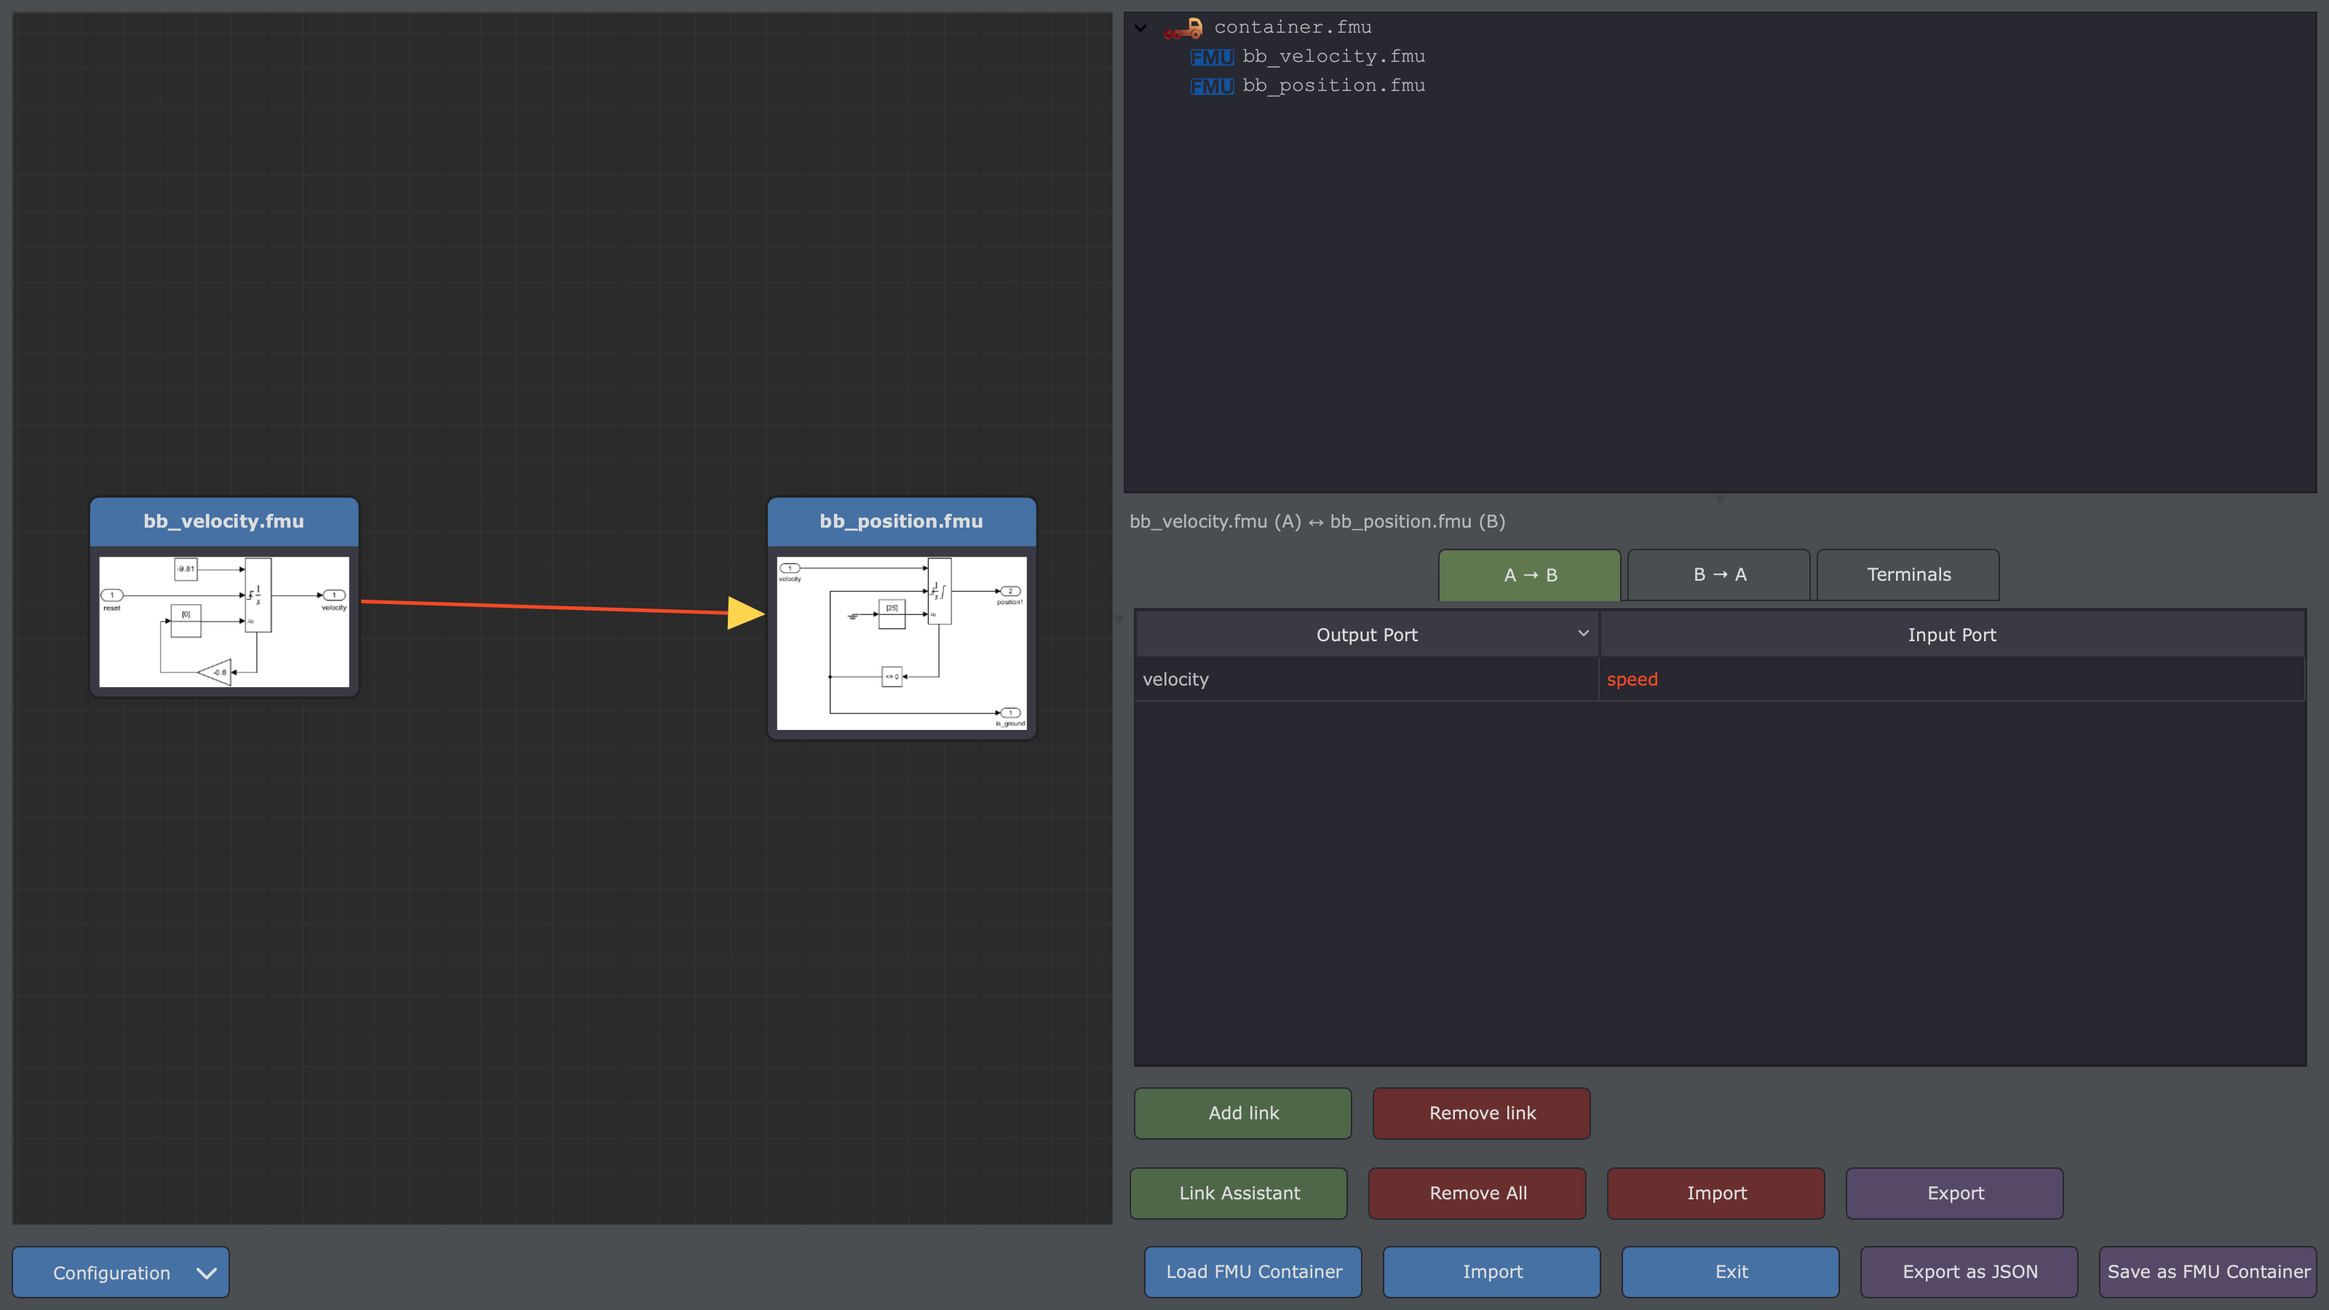
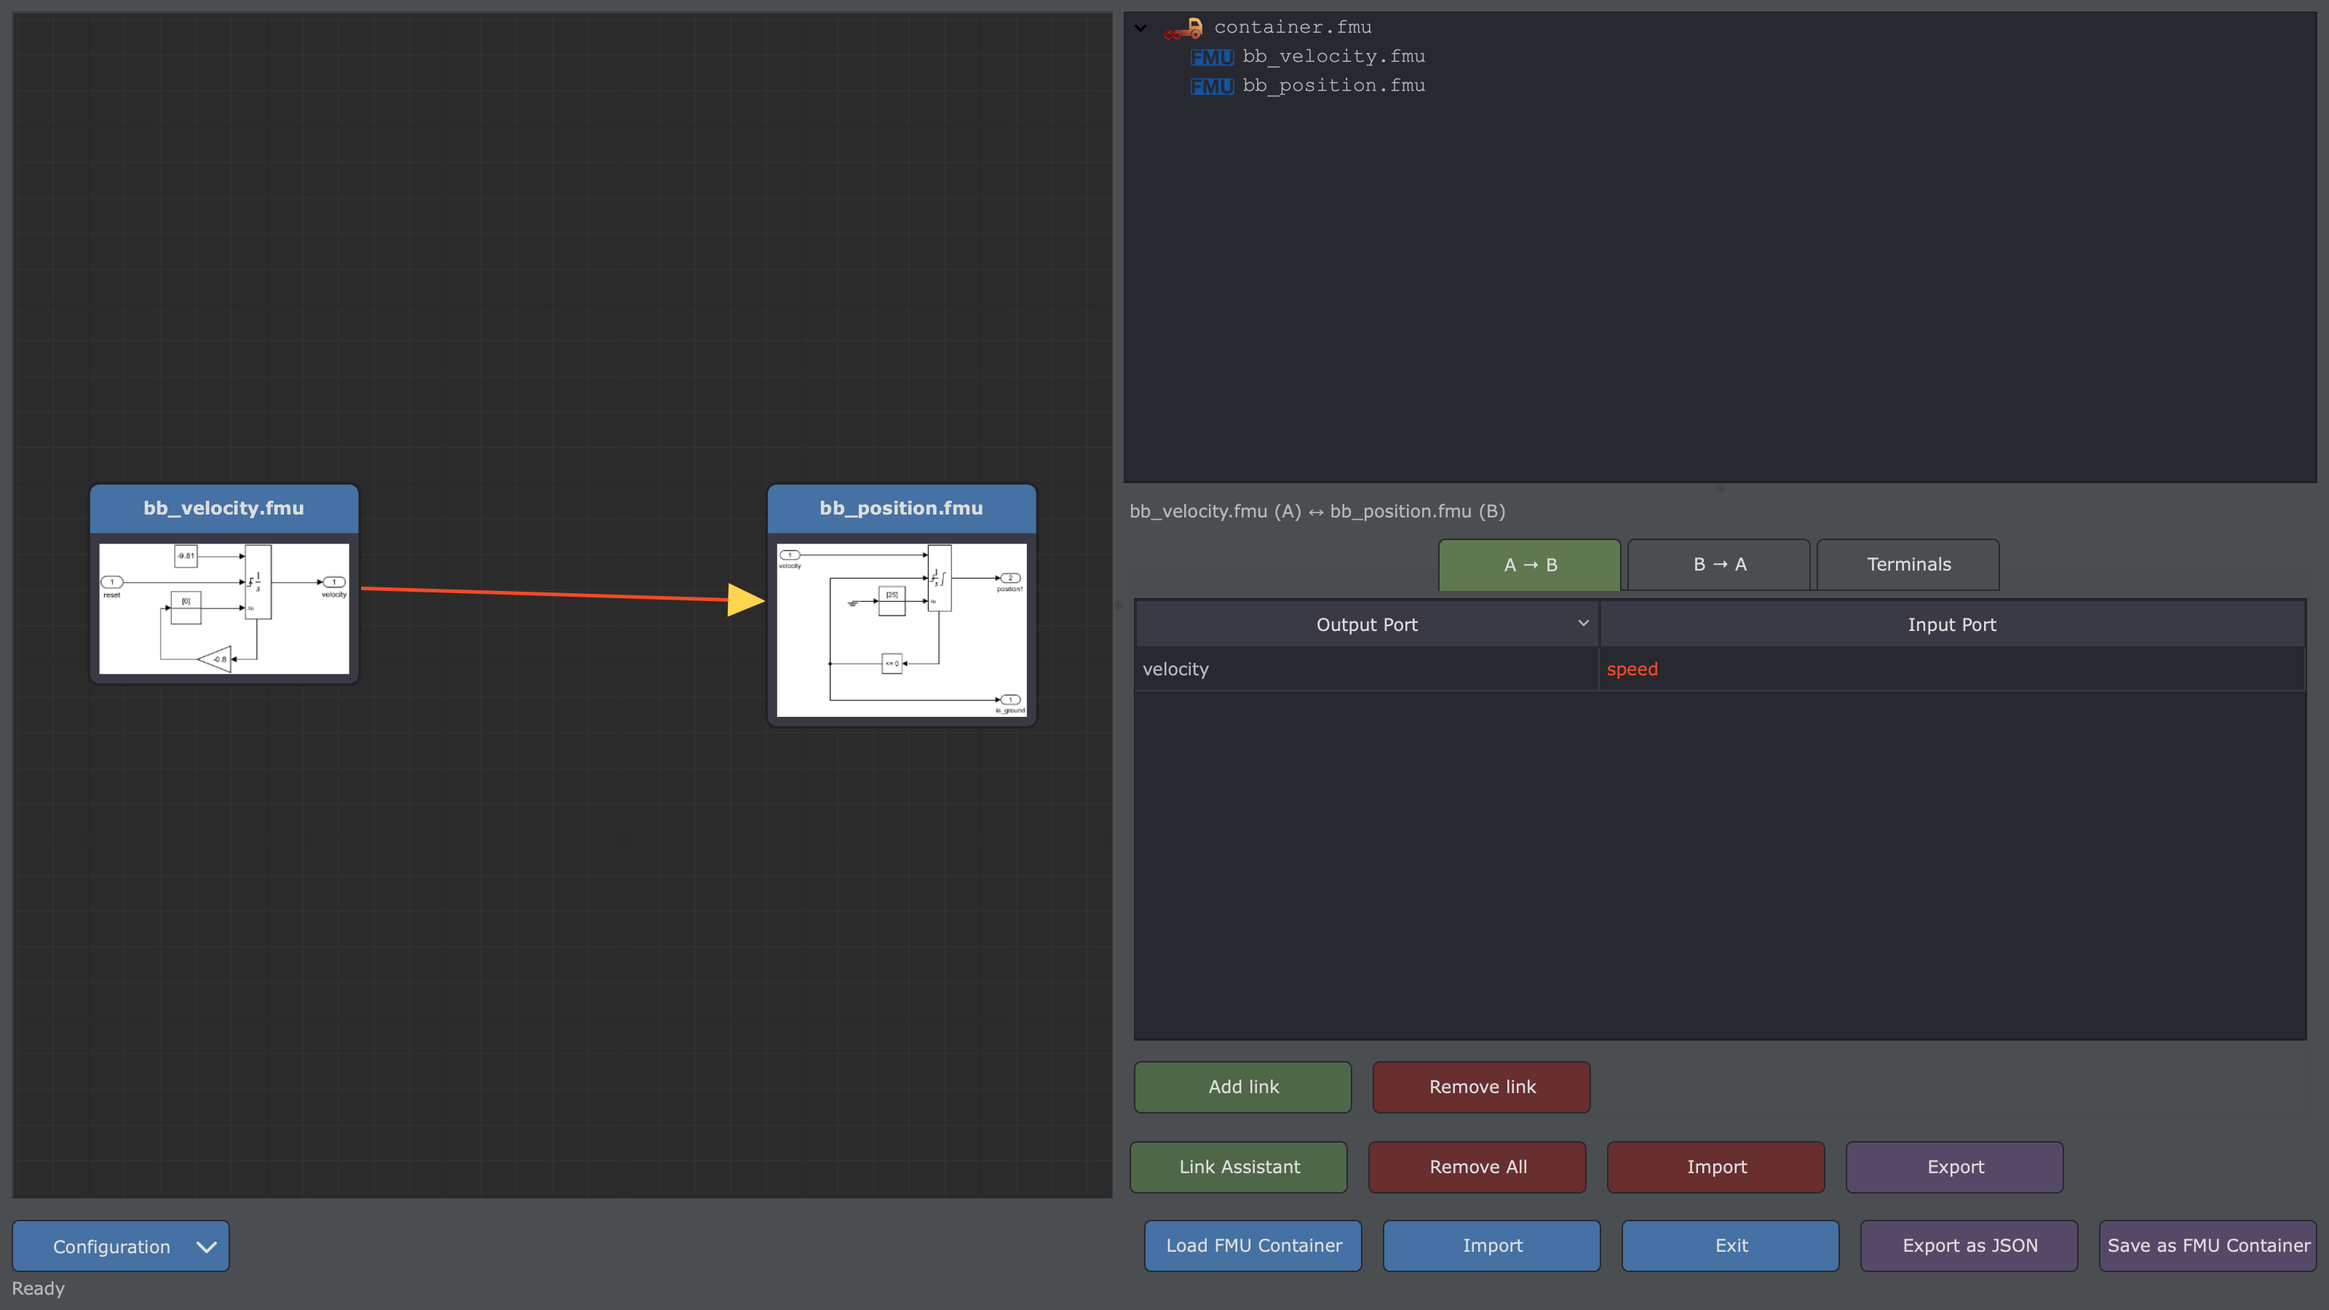
Polish log GUI

diff --git a/fmu_manipulation_toolbox/gui/fmucontainer/details/link_assistant.py b/fmu_manipulation_toolbox/gui/fmucontainer/details/link_assistant.py
@@ -15,14 +15,15 @@ import re
 import time
 from dataclasses import dataclass, field
 
-from PySide6.QtCore import Qt, Signal, QAbstractTableModel, QModelIndex, QSortFilterProxyModel, QTimer, QSize
-from PySide6.QtGui import QColor, QFont, QAction
+from PySide6.QtCore import Qt, Signal, QAbstractTableModel, QModelIndex, QSortFilterProxyModel, QTimer
+from PySide6.QtGui import QColor, QFont
 from PySide6.QtWidgets import (
     QDialog, QWidget, QLabel, QTabWidget, QSplitter, QVBoxLayout, QHBoxLayout, QGridLayout, QTableView,
-    QHeaderView, QAbstractItemView, QPushButton, QLineEdit, QCheckBox, QFrame, QStackedWidget, QMessageBox, QMenu,
+    QHeaderView, QAbstractItemView, QPushButton, QLineEdit, QCheckBox, QFrame, QStackedWidget, QMessageBox,
     QSizePolicy,
 )
 
+from fmu_manipulation_toolbox.gui.helper import MenuSelector
 from fmu_manipulation_toolbox.gui.style import status_color
 from .link_matching import (
     PortInfo, Status, Checks, Rule, AffixRule, RegexRule, SimilarityRule, RULE_KINDS, Suggestion, suggest,
@@ -273,72 +274,6 @@ class _LevelFilter(QSortFilterProxyModel):
         return True
 
 
-class _MenuSelector(QPushButton):
-    """One choice among a few items: a push button opening a menu, as the other selectors of the application
-    ("Configuration" of the Container Builder, `FilterWidget` of FMU Tool). The items are not checkable (one choice
-    only): the current one is in bold. Offers the part of the `QComboBox` interface used by the assistant."""
-    currentIndexChanged = Signal(int)
-
-    def __init__(self, parent=None):
-        super().__init__(parent)
-        self.setProperty("class", "quit")
-        self._menu = QMenu(self)
-        self._actions: list[QAction] = []
-        self._items: list[tuple[str, object]] = []
-        self._index = -1
-        self.setMenu(self._menu)
-
-    def addItem(self, text: str, data=None):
-        action = QAction(text, self)
-        index = len(self._items)
-        action.triggered.connect(lambda _=False, i=index: self.setCurrentIndex(i))
-        self._actions.append(action)
-        self._menu.addAction(action)
-        self._items.append((text, data))
-        if self._index < 0:
-            self.setCurrentIndex(0)
-
-    def clear(self):
-        self._menu.clear()
-        self._actions = []
-        self._items = []
-        self._index = -1
-        self.setText("")
-
-    def count(self) -> int:
-        return len(self._items)
-
-    def currentIndex(self) -> int:
-        return self._index
-
-    def currentData(self):
-        return self._items[self._index][1] if 0 <= self._index < len(self._items) else None
-
-    def currentText(self) -> str:
-        return self._items[self._index][0] if 0 <= self._index < len(self._items) else ""
-
-    def findData(self, data) -> int:
-        return next((index for index, (_, value) in enumerate(self._items) if value == data), -1)
-
-    def sizeHint(self):
-        """Wide enough for the longest item, and for the arrow of the menu."""
-        hint = super().sizeHint()
-        texts = [text for text, _ in self._items] or [self.text()]
-        width = max(self.fontMetrics().horizontalAdvance(text) for text in texts) + 60
-        return hint.expandedTo(QSize(width, hint.height()))
-
-    def setCurrentIndex(self, index: int):
-        if index == self._index or not 0 <= index < len(self._items):
-            return
-        self._index = index
-        self.setText(self._items[index][0])
-        for position, action in enumerate(self._actions):
-            font = action.font()
-            font.setBold(position == index)
-            action.setFont(font)
-        self.currentIndexChanged.emit(index)
-
-
 def _halves(left, right) -> QWidget:
     """Two layouts side by side, each one half of the width (whatever their content), so that the header and the
     lists of the Manual tab line up."""
@@ -356,8 +291,8 @@ def _halves(left, right) -> QWidget:
     return widget
 
 
-def _level_combo() -> _MenuSelector:
-    combo = _MenuSelector()
+def _level_combo() -> MenuSelector:
+    combo = MenuSelector()
     combo.addItem("All", None)
     combo.addItem("✔ OK", OK)
     combo.addItem("⚠ Warnings", WARNING)
@@ -473,7 +408,7 @@ class _CriterionEditor(QWidget):
         if _CriterionEditor._session_rules is None:
             _CriterionEditor._session_rules = [kind() for kind in RULE_KINDS]
         self._rules = _CriterionEditor._session_rules
-        self._kind = _MenuSelector()
+        self._kind = MenuSelector()
         for rule in self._rules:
             self._kind.addItem(rule.kind)
         self._ignore_case = QCheckBox("ignore case and separators")
@@ -494,7 +429,7 @@ class _CriterionEditor(QWidget):
         lay.addWidget(self._pages)
 
     @property
-    def kind_selector(self) -> "_MenuSelector":
+    def kind_selector(self) -> "MenuSelector":
         return self._kind
 
     @property
@@ -549,7 +484,7 @@ class _CriterionEditor(QWidget):
             lay.addWidget(replacement, 3)
             self.regex_fields = (pattern, replacement)
         elif isinstance(rule, SimilarityRule):
-            threshold = _MenuSelector()
+            threshold = MenuSelector()
             for value in range(100, 45, -5):
                 threshold.addItem(f"{value / 100:.2f}", value / 100)
             threshold.setCurrentIndex(max(threshold.findData(round(rule.threshold, 2)), 0))
@@ -613,7 +548,7 @@ class LinkAssistantDialog(QDialog):
         self.resize(1200, 860)
 
         # -- Header --
-        self._direction_combo = _MenuSelector()
+        self._direction_combo = MenuSelector()
         self._direction_combo.addItem("A → B", A_TO_B)
         self._direction_combo.addItem("B → A", B_TO_A)
         self._direction_combo.currentIndexChanged.connect(self._on_direction_changed)
@@ -768,7 +703,7 @@ class LinkAssistantDialog(QDialog):
         text = QLineEdit()
         text.setPlaceholderText("Filter name / description")
         text.textChanged.connect(lambda value: self._set_filter(proxy, text=value))
-        types = _MenuSelector()
+        types = MenuSelector()
         types.addItem("All types", "")
         types.currentIndexChanged.connect(lambda: self._set_filter(proxy, fmi_type=types.currentData()))
         only_free = QCheckBox("only free ports")
@@ -1137,7 +1072,7 @@ class LinkAssistantDialog(QDialog):
     def _same_field_sizes(self):
         """One height for the buttons, the selectors and the text fields; one width for the selectors."""
         height = self._apply.sizeHint().height()
-        selectors = self.findChildren(_MenuSelector)
+        selectors = self.findChildren(MenuSelector)
         width = max(selector.sizeHint().width() for selector in selectors)
         for selector in selectors:
             selector.setFixedSize(width, height)

diff --git a/fmu_manipulation_toolbox/gui/helper.py b/fmu_manipulation_toolbox/gui/helper.py
@@ -4,9 +4,9 @@ import os
 from collections import deque
 from collections.abc import Callable
 from PySide6.QtWidgets import (QApplication, QFileDialog, QLabel, QStatusBar, QDialog, QTextBrowser, QVBoxLayout,
-                               QHBoxLayout, QPushButton, QMessageBox, QTableView, QHeaderView, QComboBox, QLineEdit)
-from PySide6.QtGui import QDesktopServices, QIcon
-from PySide6.QtCore import Qt, Signal, QObject, QPoint, QDir, QUrl, QRect
+                               QHBoxLayout, QPushButton, QMessageBox, QTableView, QHeaderView, QLineEdit, QMenu)
+from PySide6.QtGui import QDesktopServices, QIcon, QAction
+from PySide6.QtCore import Qt, Signal, QObject, QPoint, QDir, QUrl, QRect, QSize
 from PySide6.QtGui import QPixmap, QPainter, QColor, QImage, QGuiApplication, QTextCursor
 
 from pathlib import Path
@@ -378,6 +378,72 @@ def save_log_text(parent, text: str):
         QMessageBox.critical(parent, "Save Logs", f"Cannot save logs: {e}")
 
 
+class MenuSelector(QPushButton):
+    """One choice among a few items: a push button (class `quit`) opening a menu, as the other selectors of the
+    application ("Configuration" of the Container Builder, `FilterWidget` of FMU Tool). The items are not checkable
+    (one choice only): the current one is in bold. Offers the part of the `QComboBox` interface used by the GUI."""
+    currentIndexChanged = Signal(int)
+
+    def __init__(self, parent=None):
+        super().__init__(parent)
+        self.setProperty("class", "quit")
+        self._menu = QMenu(self)
+        self._actions: list[QAction] = []
+        self._items: list[tuple[str, object]] = []
+        self._index = -1
+        self.setMenu(self._menu)
+
+    def addItem(self, text: str, data=None):
+        action = QAction(text, self)
+        index = len(self._items)
+        action.triggered.connect(lambda _=False, i=index: self.setCurrentIndex(i))
+        self._actions.append(action)
+        self._menu.addAction(action)
+        self._items.append((text, data))
+        if self._index < 0:
+            self.setCurrentIndex(0)
+
+    def clear(self):
+        self._menu.clear()
+        self._actions = []
+        self._items = []
+        self._index = -1
+        self.setText("")
+
+    def count(self) -> int:
+        return len(self._items)
+
+    def currentIndex(self) -> int:
+        return self._index
+
+    def currentData(self):
+        return self._items[self._index][1] if 0 <= self._index < len(self._items) else None
+
+    def currentText(self) -> str:
+        return self._items[self._index][0] if 0 <= self._index < len(self._items) else ""
+
+    def findData(self, data) -> int:
+        return next((index for index, (_, value) in enumerate(self._items) if value == data), -1)
+
+    def sizeHint(self):
+        """Wide enough for the longest item, and for the arrow of the menu."""
+        hint = super().sizeHint()
+        texts = [text for text, _ in self._items] or [self.text()]
+        width = max(self.fontMetrics().horizontalAdvance(text) for text in texts) + 60
+        return hint.expandedTo(QSize(width, hint.height()))
+
+    def setCurrentIndex(self, index: int):
+        if index == self._index or not 0 <= index < len(self._items):
+            return
+        self._index = index
+        self.setText(self._items[index][0])
+        for position, action in enumerate(self._actions):
+            font = action.font()
+            font.setBold(position == index)
+            action.setFont(font)
+        self.currentIndexChanged.emit(index)
+
+
 class GuiLogHandler(logging.Handler):
     """The single GUI sink of the toolbox logger.
 
@@ -491,17 +557,23 @@ class WidgetLogHandler(logging.Handler):
 
 
 class LogStatusBar(QStatusBar):
-    """Shows the last record (INFO and above) of a ``GuiLogHandler``; a click opens the ``LogWindow``."""
+    """Shows the last record (INFO and above) of a ``GuiLogHandler``; a click opens the ``LogWindow``.
+
+    Until the first record, it shows *initial_text* ("Ready"), which is not a record: it is neither in the
+    history of the handler nor in the ``LogWindow``.
+    """
 
     clicked = Signal()
+    INITIAL_TEXT = "Ready"
 
-    def __init__(self, handler: GuiLogHandler, parent=None, level=logging.INFO):
+    def __init__(self, handler: GuiLogHandler, parent=None, level=logging.INFO, initial_text: str = INITIAL_TEXT):
         super().__init__(parent)
         self._handler = handler
         self._level = level
         self._log_window: LogWindow | None = None
 
-        self._label = QLabel()
+        self._label = QLabel(initial_text)
+        self._label.setStyleSheet(f"color: {_level_color(logging.INFO)};")
         self._label.setTextInteractionFlags(Qt.TextInteractionFlag.NoTextInteraction)
         self._label.setContentsMargins(6, 0, 6, 2)
         self.addWidget(self._label, 1)
@@ -549,7 +621,7 @@ class LogWindow(QDialog):
         self._handler = handler
         self._records: deque[tuple[int, str]] = deque(maxlen=handler.history.maxlen)
 
-        self.level_combo = QComboBox()
+        self.level_combo = MenuSelector()
         for name, level in self.LEVELS:
             self.level_combo.addItem(name, level)
         self.level_combo.setToolTip("Minimum level of the displayed records")
@@ -564,7 +636,7 @@ class LogWindow(QDialog):
         filter_layout.addWidget(self.level_combo)
         filter_layout.addWidget(self.search_edit, 1)
 
-        self.view = LogWidget(width=900, height=400)
+        self.view = LogWidget(height=400)               # as wide as the log of `RunTask`
 
         self.save_button = QPushButton("Save Logs...")
         self.save_button.setProperty("class", "info")
@@ -586,6 +658,14 @@ class LogWindow(QDialog):
         button_layout.addWidget(self.save_button)
         button_layout.addWidget(self.clear_button)
         button_layout.addWidget(self.close_button)
+
+        # The level selector as wide as the buttons, the search field as high as the selector.
+        buttons = (self.save_button, self.clear_button, self.close_button)
+        width = max([button.sizeHint().width() for button in buttons] + [150])
+        for button in buttons:
+            button.setMinimumWidth(width)
+        self.level_combo.setFixedWidth(width)
+        self.search_edit.setFixedHeight(self.level_combo.sizeHint().height())
 
         layout = QVBoxLayout(self)
         layout.addLayout(filter_layout)

diff --git a/fmu_manipulation_toolbox/gui/fmucontainer/__main__.py b/fmu_manipulation_toolbox/gui/fmucontainer/__main__.py
@@ -154,7 +154,8 @@ class MainWindow(AssemblyIOMixin, UnsavedChangesWindowMixin, QMainWindow):
         button_bar.addWidget(self._save_button)
 
         main_layout = QVBoxLayout()
-        main_layout.setContentsMargins(8, 8, 8, 8)
+        # No bottom margin: the status bar is right below; see the margins of the status bar.
+        main_layout.setContentsMargins(8, 8, 8, 0)
         main_layout.addWidget(splitter, 1)
         main_layout.addLayout(button_bar)
 
@@ -163,6 +164,8 @@ class MainWindow(AssemblyIOMixin, UnsavedChangesWindowMixin, QMainWindow):
         self.setCentralWidget(central)
 
         self._status_bar = LogStatusBar(GuiLogHandler.install())
+        # The text of the status bar is as far from the buttons as from the bottom of the window.
+        self._status_bar.setContentsMargins(0, 0, 0, 4)
         self.setStatusBar(self._status_bar)
 
         self.setWindowTitle("FMU Container Builder")

diff --git a/tests/gui/test_gui_logging.py b/tests/gui/test_gui_logging.py
@@ -90,6 +90,14 @@ def test_record_from_a_worker_thread_is_delivered_on_the_main_thread(qtbot, hand
 
 
 # ── LogStatusBar ──────────────────────────────────────────────────────────
+def test_status_bar_shows_ready_until_the_first_record(status_bar, handler):
+    assert status_bar.text() == "Ready"
+    assert log_color["INFO"] in status_bar._label.styleSheet()
+    assert not handler.history                           # "Ready" is not a record
+    logger.info("first")
+    assert status_bar.text() == "first"
+
+
 def test_status_bar_shows_the_last_info_record_with_its_colour(status_bar):
     logger.info("first")
     logger.warning("second")

diff --git a/tools/screenshots.py b/tools/screenshots.py
@@ -510,6 +510,11 @@ def main():
     finally:
         shutil.rmtree(WORK, ignore_errors=True)
     application.processEvents()
+    # No selection signal from a scene being destroyed at exit (as in the GUI tests).
+    for window in WINDOWS:
+        graph = getattr(window, "_graph", None)
+        if graph is not None:
+            graph.scene.blockSignals(True)
 
 
 if __name__ == "__main__":
